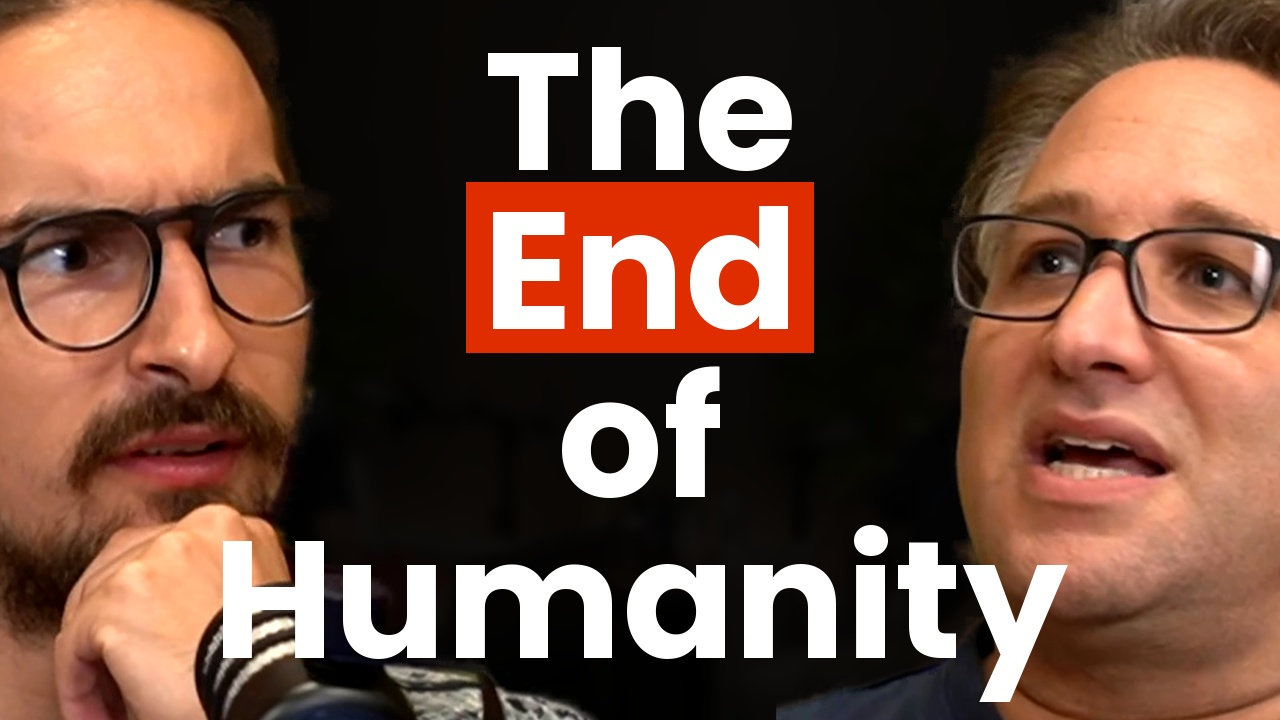
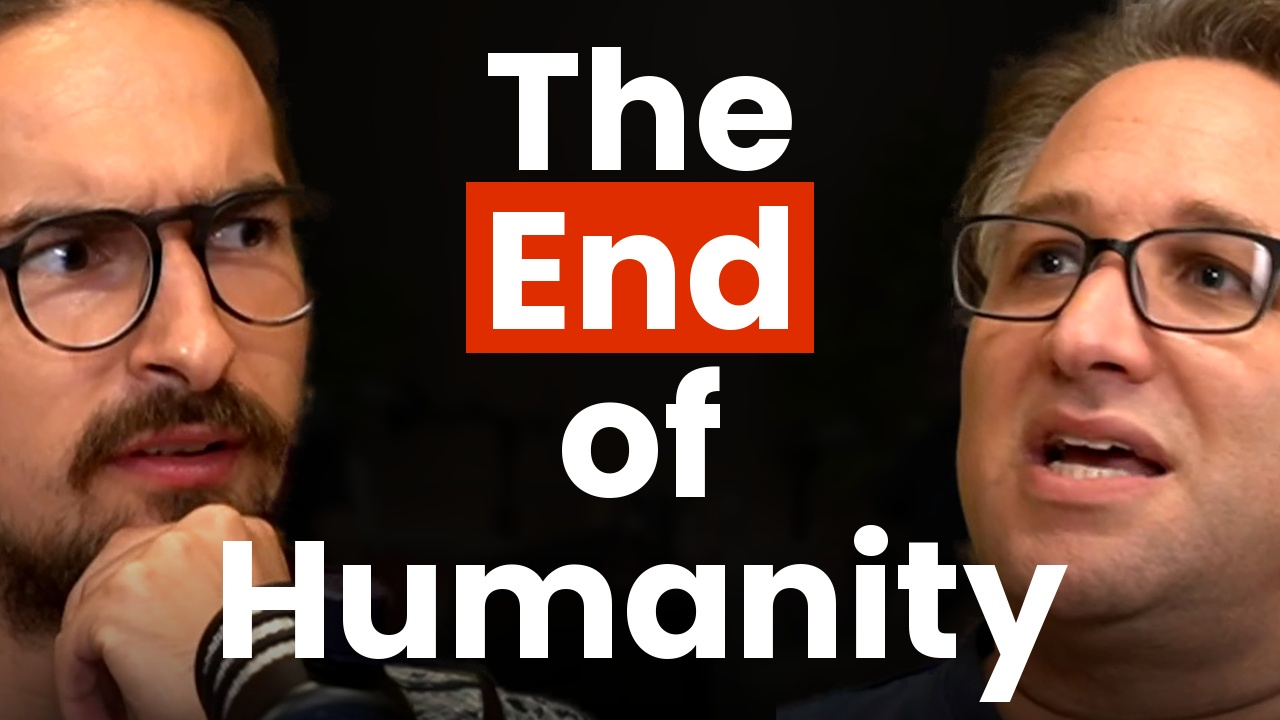
Extinction kleiner und enger gesetzt, Verlauf am unteren Rand
Grad 165 -> 130 und Zeilenabstand 1.11 -> 0.90: der Kasten lag vorher auf
Augenhoehe und schnitt in den Roboterkopf. Der Block steht jetzt bei 122
statt 169, Kastenunterkante bei rund 250 — beide Augenpaare (293 / 316)
und das Robotergesicht bleiben frei.

Neu `unten_abdunkeln`: weicher Verlauf ueber den Koepfen, unter der
Schrift. Das Mikrofon gehoert zum Freisteller, eine Abdunklung nur im
Hintergrund haette genau die helle Stelle unter dem „H" verfehlt. Die
Deckung waechst mit t**1.5; quadratisch war zu spaet dran und liess das
Mikrofon weiss.

Claude-Session: https://claude.ai/code/session_01Qng36it9JR8kntKEjVEjXS

diff --git a/video/thumbnail_bau.py b/video/thumbnail_bau.py
@@ -387,6 +387,32 @@ def satz(bild, zeilen, kasten, mitte_x=640, mitte_y=360,
     return bild, grad
 
 
+def unten_abdunkeln(bild, staerke=0.45, hoehe=220):
+    """Unteren Bildrand weich abdunkeln, damit weisse Schrift dort traegt.
+
+    Eine letzte Zeile wie „Humanity" laeuft bei ihm ueber Mikrofon und
+    Schulter — helle Stellen, auf denen Weiss auf Weiss steht. Ein Verlauf
+    nach unten loest das, ohne dass eine Kante sichtbar wird: die Deckung
+    waechst mit t**1.5, oben also fast nichts, unten `staerke`. Quadratisch
+    waere zu spaet dran — gemessen lag die Deckung auf Mikrofonhoehe dann
+    noch bei 13 %, und das Mikrofon blieb weiss.
+
+    Der Verlauf liegt ueber den Koepfen, nicht nur ueber dem Hintergrund —
+    das Mikrofon gehoert zum Freisteller, eine Abdunklung nur im Hintergrund
+    wuerde genau die helle Stelle verfehlen.
+    """
+    if not staerke:
+        return bild
+    rampe = Image.new('L', (1, HOEHE), 0)
+    for y in range(HOEHE):
+        t = (y - (HOEHE - hoehe)) / hoehe
+        rampe.putpixel((0, y), 0 if t <= 0 else int(255 * staerke * t ** 1.5))
+    schleier = Image.new('RGBA', (BREITE, HOEHE), (0, 0, 0, 255))
+    schleier.putalpha(rampe.resize((BREITE, HOEHE)))
+    bild.alpha_composite(schleier)
+    return bild
+
+
 def bauen(hg, links, rechts, zeilen, kasten, ziel, text_mitte=640,
           text_mitte_y=None, max_breite=None, max_hoehe=None, grad=None,
           hg_dunkel=0.08, hg_weich=6.0, ziel_links=None, ziel_rechts=None,
@@ -397,7 +423,7 @@ def bauen(hg, links, rechts, zeilen, kasten, ziel, text_mitte=640,
           pfeil_nach=None, pfeil_bogen=0.28, pfeil_dicke=18,
           pfeil_farbe=(0xDF, 0x2D, 0x00), pfeil_gezeichnet=True,
           pfeil_kopf=3.1, links_spiegeln=False, rechts_spiegeln=False,
-          zeilenhoehe=None):
+          zeilenhoehe=None, unten_dunkel=0.0, unten_hoehe=220):
     """zeilen: Liste von Texten · kasten: Zeilenindex, oder [index, "teil"].
 
     `mitte` ist ein echtes Foto fuer die Bildmitte. Liegt eines vor, ruecken
@@ -456,6 +482,8 @@ def bauen(hg, links, rechts, zeilen, kasten, ziel, text_mitte=640,
         # Auf die Koepfe geworfen, nicht dahinter: wer „ein Logo auf ihn
         # werfen" sagt, meint davor.
         logo_setzen(bild, logo, logo_xy, logo_groesse, logo_farbe)
+
+    unten_abdunkeln(bild, unten_dunkel, unten_hoehe)
 
     _, grad = satz(bild, zeilen, kasten, text_mitte, text_mitte_y,
                    max_breite, max_hoehe, grad, zeilenhoehe)
